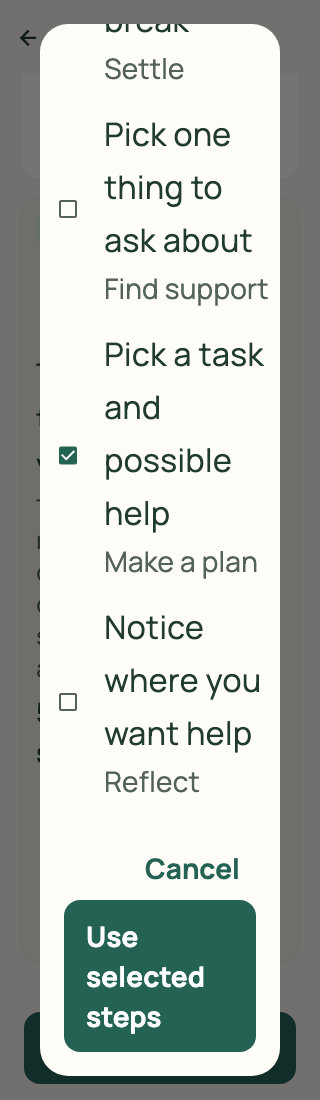
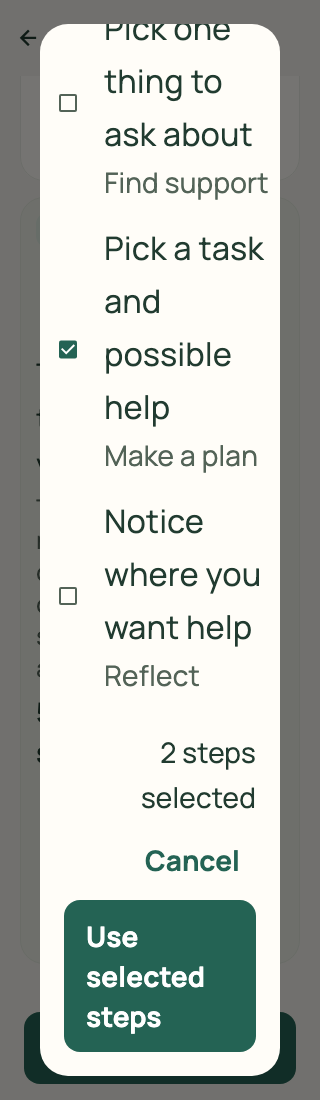
Keep starter selection count visible while choosing steps

diff --git a/lib/features/journey/guidance_picker.dart b/lib/features/journey/guidance_picker.dart
@@ -137,13 +137,14 @@ class _StarterStepsPickerDialogState extends State<StarterStepsPickerDialog> {
   bool _saving = false;
   String? _error;
 
+  List<String> get _selectedStepIds => [
+    for (final step in _guide.starterSteps)
+      if (_selected.contains(step.id) && !_existing.contains(step.id)) step.id,
+  ];
+
   Future<void> _save() async {
     if (_saving) return;
-    final ids = [
-      for (final step in _guide.starterSteps)
-        if (_selected.contains(step.id) && !_existing.contains(step.id))
-          step.id,
-    ];
+    final ids = _selectedStepIds;
     setState(() {
       _saving = true;
       _error = null;
@@ -162,70 +163,98 @@ class _StarterStepsPickerDialogState extends State<StarterStepsPickerDialog> {
   }
 
   @override
-  Widget build(BuildContext context) => PopScope(
-    canPop: !_saving,
-    child: AlertDialog(
-      title: const Text('Choose starter steps'),
-      scrollable: true,
-      content: SizedBox(
-        width: 520,
-        child: Column(
-          mainAxisSize: MainAxisSize.min,
-          crossAxisAlignment: CrossAxisAlignment.start,
-          children: [
-            Text(
-              widget.simpleWords
-                  ? 'Pick any steps you want. You can pick none or add your own later.'
-                  : 'Choose any ideas that fit. Choosing none is fine; you can add your own steps later.',
-            ),
-            const SizedBox(height: 12),
-            for (final step in _guide.starterSteps)
-              CheckboxListTile(
-                value: _selected.contains(step.id),
-                controlAffinity: ListTileControlAffinity.leading,
-                contentPadding: EdgeInsets.zero,
-                title: Text(step.text(simpleWords: widget.simpleWords)),
-                subtitle: Column(
-                  crossAxisAlignment: CrossAxisAlignment.start,
-                  children: [
-                    Text(_stageLabels[step.stage]!),
-                    if (_existing.contains(step.id))
-                      const Text('Already in your path'),
-                  ],
-                ),
-                onChanged: _saving || _existing.contains(step.id)
-                    ? null
-                    : (value) => setState(() {
-                        if (value == true) {
-                          _selected.add(step.id);
-                        } else {
-                          _selected.remove(step.id);
-                        }
-                      }),
+  Widget build(BuildContext context) {
+    final selectedCount = _selectedStepIds.length;
+    return PopScope(
+      canPop: !_saving,
+      child: AlertDialog(
+        title: const Text('Choose starter steps'),
+        scrollable: true,
+        content: SizedBox(
+          width: 520,
+          child: Column(
+            mainAxisSize: MainAxisSize.min,
+            crossAxisAlignment: CrossAxisAlignment.start,
+            children: [
+              Text(
+                widget.simpleWords
+                    ? 'Pick any steps you want. You can pick none or add your own later.'
+                    : 'Choose any ideas that fit. Choosing none is fine; you can add your own steps later.',
               ),
-            if (_error != null)
+              const SizedBox(height: 12),
+              for (final step in _guide.starterSteps)
+                CheckboxListTile(
+                  value: _selected.contains(step.id),
+                  controlAffinity: ListTileControlAffinity.leading,
+                  contentPadding: EdgeInsets.zero,
+                  title: Text(step.text(simpleWords: widget.simpleWords)),
+                  subtitle: Column(
+                    crossAxisAlignment: CrossAxisAlignment.start,
+                    children: [
+                      Text(_stageLabels[step.stage]!),
+                      if (_existing.contains(step.id))
+                        const Text('Already in your path'),
+                    ],
+                  ),
+                  onChanged: _saving || _existing.contains(step.id)
+                      ? null
+                      : (value) => setState(() {
+                          if (value == true) {
+                            _selected.add(step.id);
+                          } else {
+                            _selected.remove(step.id);
+                          }
+                        }),
+                ),
+              if (_error != null)
+                Semantics(
+                  liveRegion: true,
+                  child: Text(
+                    _error!,
+                    style: TextStyle(
+                      color: Theme.of(context).colorScheme.error,
+                    ),
+                  ),
+                ),
+            ],
+          ),
+        ),
+        actions: [
+          Column(
+            mainAxisSize: MainAxisSize.min,
+            crossAxisAlignment: CrossAxisAlignment.stretch,
+            children: [
               Semantics(
                 liveRegion: true,
                 child: Text(
-                  _error!,
-                  style: TextStyle(color: Theme.of(context).colorScheme.error),
+                  '$selectedCount ${selectedCount == 1 ? 'step' : 'steps'} selected',
+                  textAlign: TextAlign.end,
                 ),
               ),
-          ],
-        ),
+              const SizedBox(height: 8),
+              Wrap(
+                alignment: WrapAlignment.end,
+                spacing: 8,
+                runSpacing: 8,
+                children: [
+                  TextButton(
+                    onPressed: _saving
+                        ? null
+                        : () => Navigator.of(context).pop(),
+                    child: const Text('Cancel'),
+                  ),
+                  FilledButton(
+                    onPressed: _saving ? null : _save,
+                    child: Text(_saving ? 'Saving…' : 'Use selected steps'),
+                  ),
+                ],
+              ),
+            ],
+          ),
+        ],
       ),
-      actions: [
-        TextButton(
-          onPressed: _saving ? null : () => Navigator.of(context).pop(),
-          child: const Text('Cancel'),
-        ),
-        FilledButton(
-          onPressed: _saving ? null : _save,
-          child: Text(_saving ? 'Saving…' : 'Use selected steps'),
-        ),
-      ],
-    ),
-  );
+    );
+  }
 }
 
 /// Compact context panel shared by creation and the saved Path. Its copy is

diff --git a/test/widget/event_guidance_test.dart b/test/widget/event_guidance_test.dart
@@ -74,6 +74,29 @@ Future<void> _chooseGuide(WidgetTester tester, String guide) async {
   await _tap(tester, 'Use guide');
 }
 
+void _expectSelectedCount(WidgetTester tester, int count) {
+  final counter = find.descendant(
+    of: find.byType(AlertDialog),
+    matching: find.text('$count ${count == 1 ? 'step' : 'steps'} selected'),
+  );
+  expect(counter, findsOneWidget);
+  expect(counter.hitTestable(), findsOneWidget);
+  expect(
+    find.ancestor(of: counter, matching: find.byType(Scrollable)),
+    findsNothing,
+    reason: 'The count must stay visible while the starter rows scroll',
+  );
+  expect(
+    tester
+        .widget<Semantics>(
+          find.ancestor(of: counter, matching: find.byType(Semantics)).first,
+        )
+        .properties
+        .liveRegion,
+    isTrue,
+  );
+}
+
 void main() {
   late _Repository repository;
   late AppController controller;
@@ -94,10 +117,12 @@ void main() {
     await _chooseGuide(tester, 'Adult life changes');
     expect(find.text('5 starter steps selected'), findsOneWidget);
     await _tap(tester, 'Choose starter steps');
+    _expectSelectedCount(tester, 5);
     final steps = guideFor(GuidanceContext.adultChanges).starterSteps;
     for (final step in steps.skip(1)) {
       await _tap(tester, step.title);
     }
+    _expectSelectedCount(tester, 1);
     await _tap(tester, 'Use selected steps');
     expect(find.text('1 starter step selected'), findsOneWidget);
     expect(controller.activeEvent, isNull);
@@ -118,6 +143,7 @@ void main() {
     for (final step in guideFor(GuidanceContext.general).starterSteps) {
       await _tap(tester, step.title);
     }
+    _expectSelectedCount(tester, 0);
     await _tap(tester, 'Use selected steps');
     expect(find.text('0 starter steps selected'), findsOneWidget);
     await _tap(tester, 'Save event');
@@ -221,8 +247,14 @@ void main() {
       expect(existing.onChanged, isNull);
       expect(existing.value, isFalse);
       expect(find.text('Already in your path'), findsOneWidget);
+      _expectSelectedCount(tester, 0);
+      await _tap(tester, guide.starterSteps[1].title);
+      _expectSelectedCount(tester, 1);
+      await _tap(tester, guide.starterSteps[1].title);
+      _expectSelectedCount(tester, 0);
       await _tap(tester, guide.starterSteps[1].title);
       await _tap(tester, guide.starterSteps[2].title);
+      _expectSelectedCount(tester, 2);
       final saves = repository.saves;
       await _tap(tester, 'Use selected steps');
       await _settle(tester);
@@ -282,6 +314,7 @@ void main() {
       expect(find.text(guide.simpleDescription), findsOneWidget);
       expect(find.text(guide.simpleHelperNote), findsOneWidget);
       await _tap(tester, 'Choose starter steps');
+      _expectSelectedCount(tester, 5);
       expect(find.text(guide.starterSteps.first.simpleTitle), findsOneWidget);
       expect(find.text(guide.starterSteps.first.title), findsNothing);
       await _tap(tester, 'Use selected steps');
@@ -377,6 +410,7 @@ void main() {
           expect(find.byType(AlertDialog), findsNothing);
           await _chooseGuide(tester, 'School & growing up');
           await _tap(tester, 'Choose starter steps');
+          _expectSelectedCount(tester, 5);
           final first = find.widgetWithText(
             CheckboxListTile,
             'Choose something on your mind',
@@ -411,7 +445,9 @@ void main() {
             reason: 'Starter rows must be reachable with Tab',
           );
           expect(tester.widget<CheckboxListTile>(first).value, isFalse);
+          _expectSelectedCount(tester, 4);
           await _tap(tester, 'Notice what you tried');
+          _expectSelectedCount(tester, 3);
           await _tap(tester, 'Use selected steps');
           expect(find.text('3 starter steps selected'), findsOneWidget);
           await _tap(tester, 'Save event');
